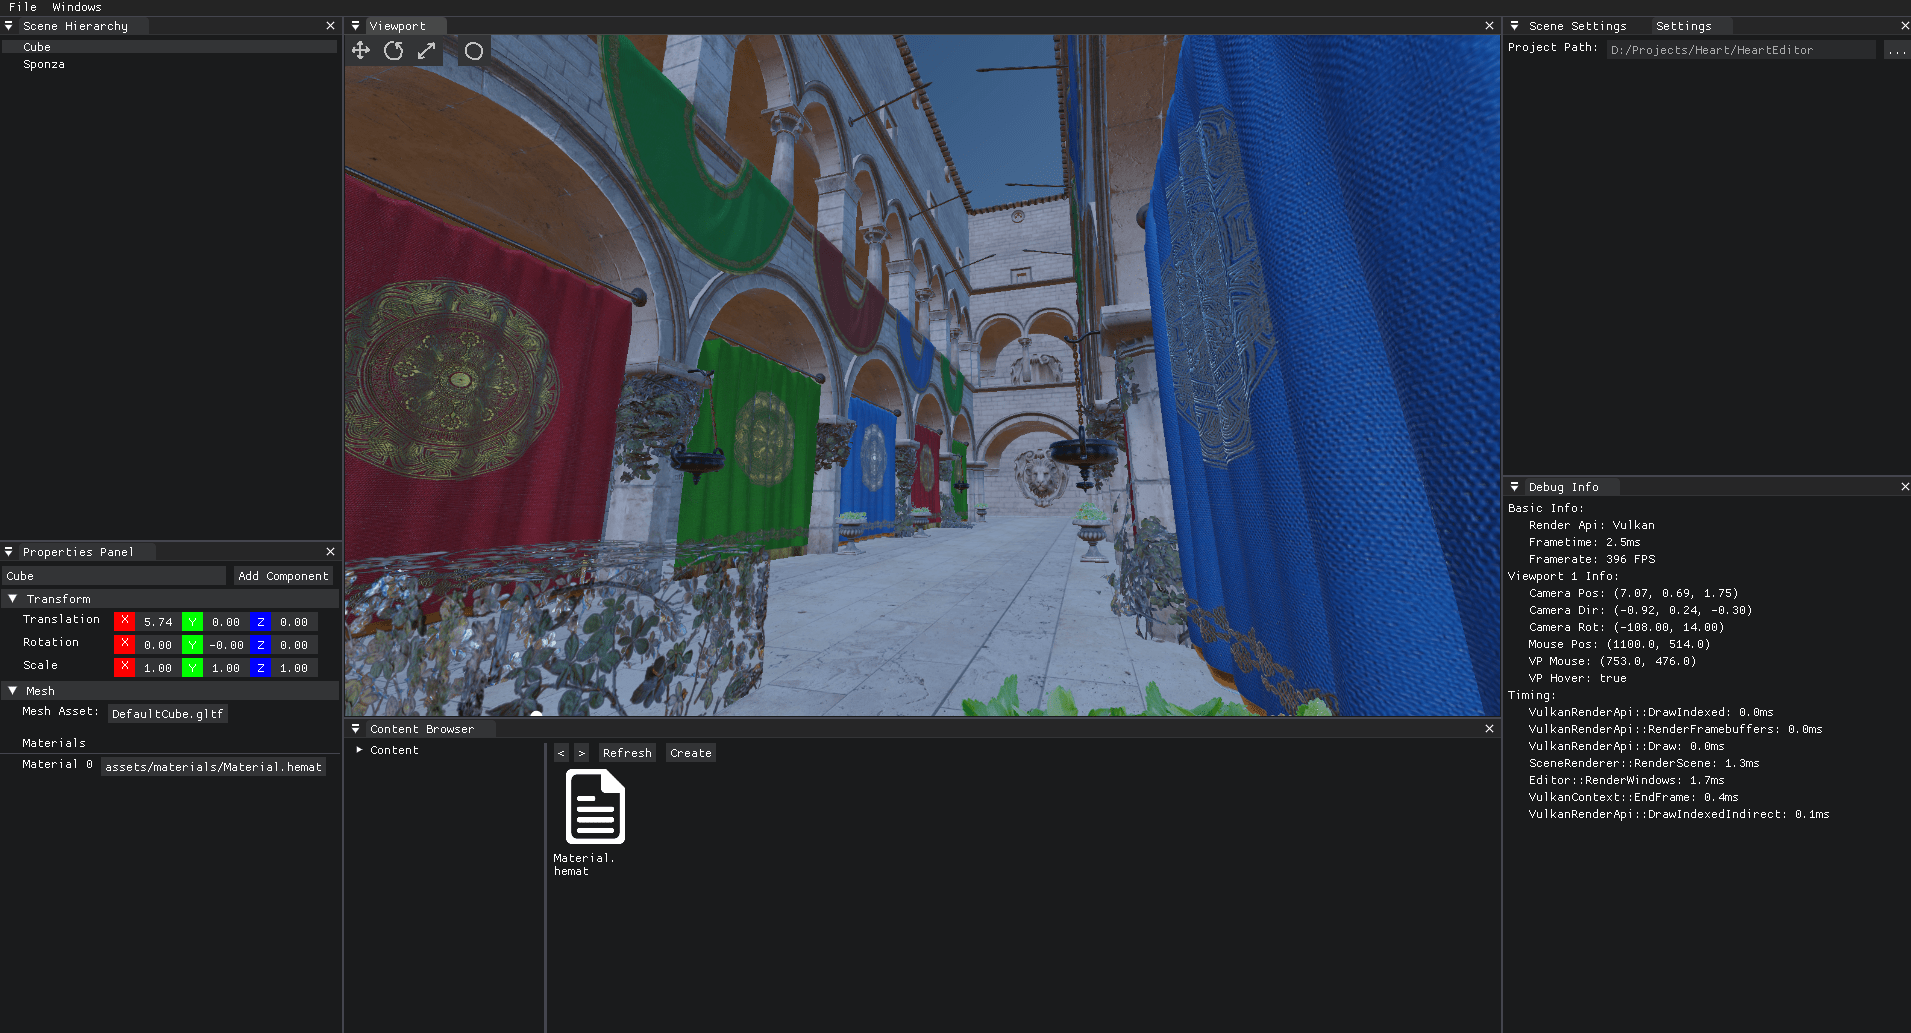
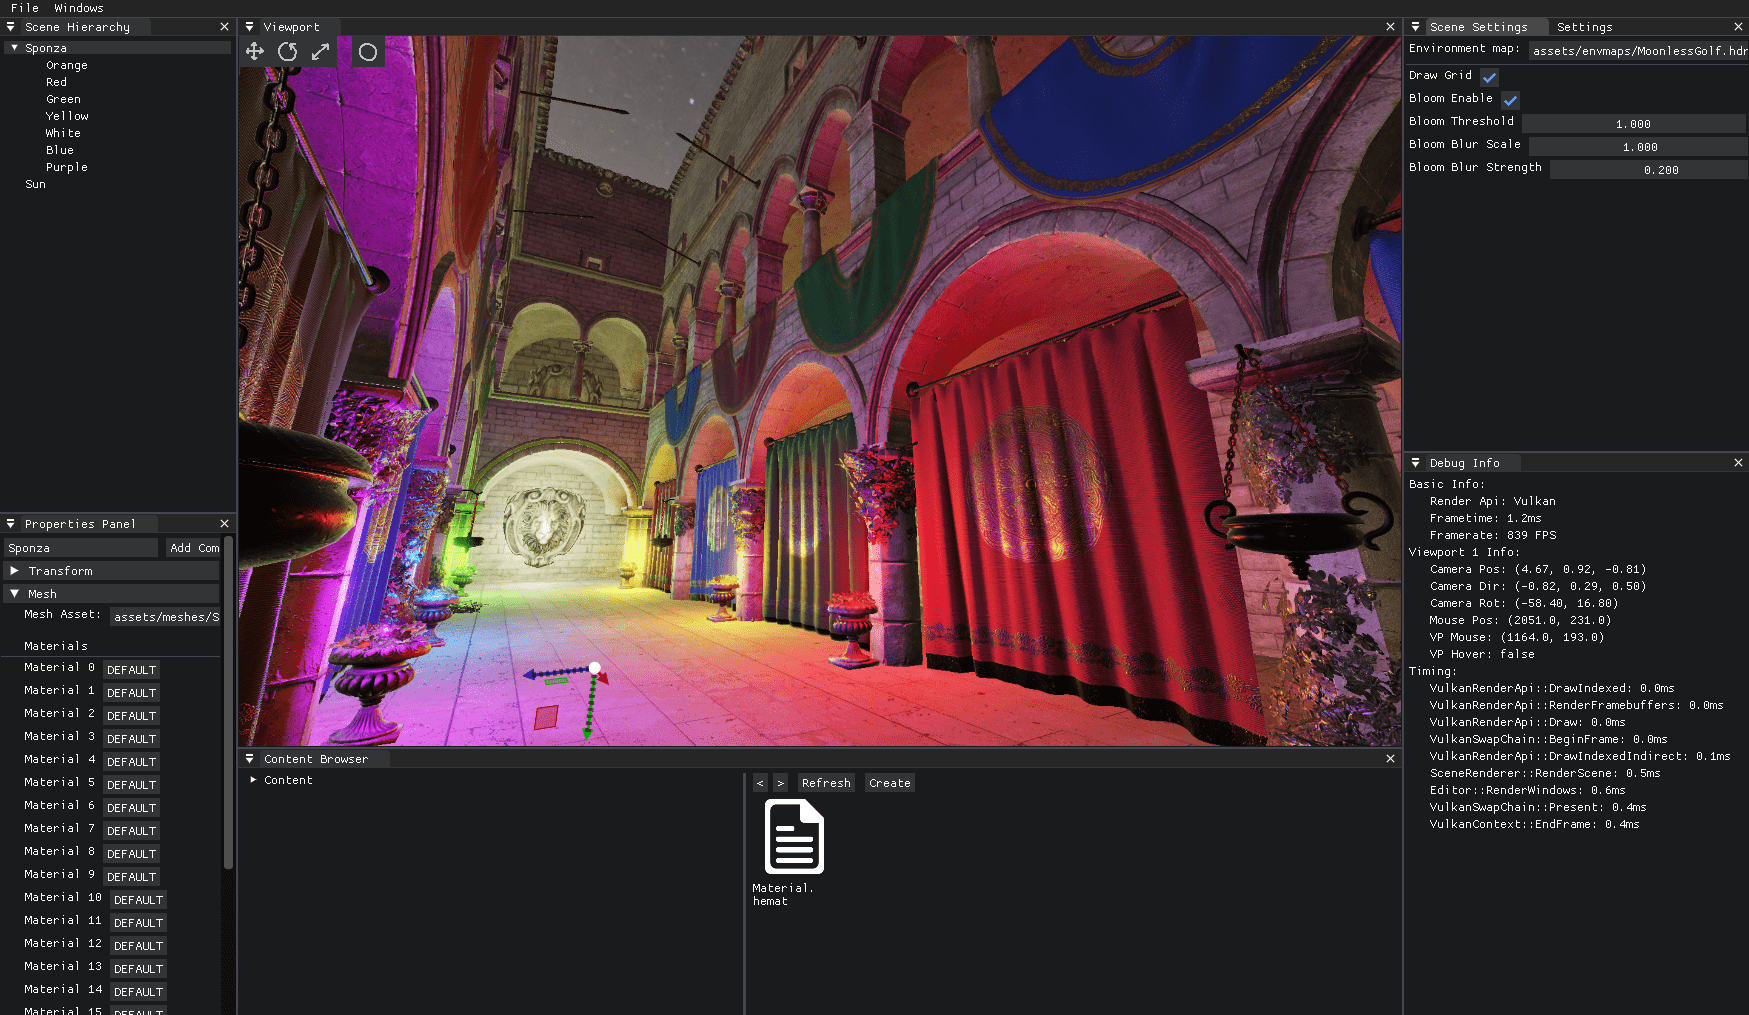
Updated screenshots & material editor fix

diff --git a/Heart/src/Heart/Renderer/SceneRenderer.cpp b/Heart/src/Heart/Renderer/SceneRenderer.cpp
@@ -91,7 +91,10 @@ namespace Heart
             { BufferDataType::Float4 }, // camera pos
             { BufferDataType::Float2 }, // screen size
             { BufferDataType::Bool }, // reverse depth
-            { BufferDataType::Float }, // padding
+            { BufferDataType::Float }, // bloom threshold
+            { BufferDataType::Bool }, // cull enable
+            { BufferDataType::Bool }, // padding
+            { BufferDataType::Float2 } // padding
         };
         BufferLayout bloomDataLayout = {
             { BufferDataType::UInt }, // mip level
@@ -250,7 +253,7 @@ namespace Heart
                 { {}, { { SubpassAttachmentType::Color, 3 } } }, // grid
                 { {}, { { SubpassAttachmentType::Depth, 0 }, { SubpassAttachmentType::Color, 3 }, { SubpassAttachmentType::Color, 4 }, { SubpassAttachmentType::Color, 0 } } }, // opaque
                 { {}, { { SubpassAttachmentType::Depth, 0 }, { SubpassAttachmentType::Color, 0 }, { SubpassAttachmentType::Color, 1 }, { SubpassAttachmentType::Color, 2 } } }, // transparent color
-                { { { SubpassAttachmentType::Color, 1 }, { SubpassAttachmentType::Color, 2 } }, { { SubpassAttachmentType::Depth, 0 }, { SubpassAttachmentType::Color, 3 } } }, // composite
+                { { { SubpassAttachmentType::Color, 1 }, { SubpassAttachmentType::Color, 2 } }, { { SubpassAttachmentType::Depth, 0 }, { SubpassAttachmentType::Color, 3 }, { SubpassAttachmentType::Color, 4 } } }, // composite
             },
             m_RenderWidth, m_RenderHeight,
             MsaaSampleCount::None
@@ -316,7 +319,7 @@ namespace Heart
             false,
             VertexTopology::TriangleList,
             Heart::Mesh::GetVertexLayout(),
-            { { true, BlendFactor::OneMinusSrcAlpha, BlendFactor::SrcAlpha, BlendFactor::SrcAlpha, BlendFactor::OneMinusSrcAlpha } },
+            { { true, BlendFactor::OneMinusSrcAlpha, BlendFactor::SrcAlpha, BlendFactor::SrcAlpha, BlendFactor::OneMinusSrcAlpha }, { false } },
             true,
             false,
             CullMode::None,
@@ -411,7 +414,7 @@ namespace Heart
             if (i == 0) // If we are on the last iteration, output directly to the output texture
             {
                 bloomFbCreateInfo.ColorAttachments[0].Texture = m_FinalTexture;
-                bloomFbCreateInfo.SampleCount = MsaaSampleCount::None;
+                bloomFbCreateInfo.SampleCount = MsaaSampleCount::Four;
             }
             else // Otherwise we are outputting to the bright color texture
                 bloomFbCreateInfo.ColorAttachments[0].Texture = m_BrightColorsTexture;
@@ -457,7 +460,8 @@ namespace Heart
             camera.GetProjectionMatrix(), camera.GetViewMatrix(), glm::vec4(cameraPosition, 1.f),
             m_MainFramebuffer->GetSize(),
             Renderer::IsUsingReverseDepth(),
-            m_SceneRenderSettings.BloomThreshold
+            m_SceneRenderSettings.BloomThreshold,
+            m_SceneRenderSettings.CullEnable
         };
         m_FrameDataBuffer->SetElements(&frameData, 1, 0);
 
@@ -467,10 +471,13 @@ namespace Heart
         // Recalculate the indirect render batches
         CalculateBatches();
 
-        SetupCullCompute();
-
-        // Bind the main framebuffer
-        m_MainFramebuffer->Bind(m_ComputeCullPipeline.get());
+        if (m_SceneRenderSettings.CullEnable)
+        {
+            SetupCullCompute();
+            m_MainFramebuffer->Bind(m_ComputeCullPipeline.get());
+        }
+        else
+            m_MainFramebuffer->Bind();
 
         // Render the skybox if set
         if (m_EnvironmentMap)
@@ -611,7 +618,8 @@ namespace Heart
             // Popupate the indirect buffer
             IndexedIndirectCommand command = {
                 pair.second.Mesh->GetIndexBuffer()->GetAllocatedCount(),
-                0, 0, 0, objectId
+                m_SceneRenderSettings.CullEnable ? 0 : pair.second.Count,
+                0, 0, objectId
             };
             m_IndirectBuffer->SetElements(&command, 1, commandIndex);
 
@@ -633,10 +641,13 @@ namespace Heart
                 m_ObjectDataBuffer->SetElements(&objectData, 1, objectId);
 
                 // Instance data
-                InstanceData instanceData = {
-                    objectId, commandIndex
-                };
-                m_InstanceDataBuffer->SetElements(&instanceData, 1, objectId);
+                if (m_SceneRenderSettings.CullEnable)
+                {
+                    InstanceData instanceData = {
+                        objectId, commandIndex
+                    };
+                    m_InstanceDataBuffer->SetElements(&instanceData, 1, objectId);
+                }
 
                 // Material data
                 if (pair.second.Material)

diff --git a/HeartEditor/src/HeartEditor/EditorLayer.cpp b/HeartEditor/src/HeartEditor/EditorLayer.cpp
@@ -90,13 +90,13 @@ namespace HeartEditor
         //     entity.SetPosition({ rand() % (max * 2) - max, rand() % (max * 2) - max, rand() % (max * 2) - max });
         // }
 
-        int max = 100;
-        for (int i = 0; i < 200; i++)
-        {
-            Heart::Entity entity = Editor::GetActiveScene().CreateEntity("Mesh " + std::to_string(i));
-            auto& comp = entity.AddComponent<Heart::MeshComponent>().Mesh = Heart::AssetManager::GetAssetUUID("assets/meshes/Sponza/glTF/Sponza.gltf");
-            entity.SetPosition({ rand() % (max * 2) - max, rand() % (max * 2) - max, rand() % (max * 2) - max });
-        }
+        // int max = 100;
+        // for (int i = 0; i < 200; i++)
+        // {
+        //     Heart::Entity entity = Editor::GetActiveScene().CreateEntity("Mesh " + std::to_string(i));
+        //     auto& comp = entity.AddComponent<Heart::MeshComponent>().Mesh = Heart::AssetManager::GetAssetUUID("assets/meshes/Sponza/glTF/Sponza.gltf");
+        //     entity.SetPosition({ rand() % (max * 2) - max, rand() % (max * 2) - max, rand() % (max * 2) - max });
+        // }
     }
 
     EditorLayer::~EditorLayer()

diff --git a/HeartEditor/src/HeartEditor/Widgets/MaterialEditor.cpp b/HeartEditor/src/HeartEditor/Widgets/MaterialEditor.cpp
@@ -69,6 +69,10 @@ namespace Widgets
                 m_CachedMaterial = materialAsset->GetMaterial();
             }
 
+            Heart::SceneRenderSettings renderSettings;
+            renderSettings.DrawGrid = false;
+            renderSettings.CullEnable = false;
+
             // Updates
             m_LastMaterial = m_SelectedMaterial;
             m_FirstRender = false;
@@ -79,7 +83,7 @@ namespace Widgets
                 m_Scene.get(),
                 m_SceneCamera,
                 m_SceneCameraPosition,
-                Heart::SceneRenderSettings() // default settings
+                renderSettings
             );
         }
 

diff --git a/Heart/src/Heart/Renderer/SceneRenderer.h b/Heart/src/Heart/Renderer/SceneRenderer.h
@@ -15,6 +15,8 @@ namespace Heart
         float BloomBlurStrength = 0.2f;
         float BloomBlurScale = 1.f;
         float BloomThreshold = 1.f;
+
+        bool CullEnable = true;
     };
 
     class Scene;
@@ -41,6 +43,9 @@ namespace Heart
             glm::vec2 ScreenSize;
             bool ReverseDepth;
             float BloomThreshold;
+            bool CullEnable;
+            bool padding1;
+            glm::vec2 padding2;
         };
         struct BloomData
         {

diff --git a/HeartEditor/src/HeartEditor/Widgets/SceneSettings.cpp b/HeartEditor/src/HeartEditor/Widgets/SceneSettings.cpp
@@ -63,6 +63,10 @@ namespace Widgets
         ImGui::SameLine();
         ImGui::DragFloat("##BBStren", &Editor::GetState().RenderSettings.BloomBlurStrength, 0.1f, 0.f, 50.f);
 
+        ImGui::Text("Cull Enable");
+        ImGui::SameLine();
+        ImGui::Checkbox("##CullEnable", &Editor::GetState().RenderSettings.CullEnable);
+
         ImGui::End();
         ImGui::PopStyleVar();
     }

diff --git a/HeartEditor/src/HeartEditor/Widgets/SceneHierarchyPanel.cpp b/HeartEditor/src/HeartEditor/Widgets/SceneHierarchyPanel.cpp
@@ -106,7 +106,11 @@ namespace Widgets
             ImGui::EndPopup();
         }
 
-        if (justDestroyed) return true;
+        if (justDestroyed)
+        {
+            ImGui::TreePop();
+            return true;
+        }
 
         // recursively render children components
         if (open)

diff --git a/Heart/src/Heart/Core/Camera.cpp b/Heart/src/Heart/Core/Camera.cpp
@@ -194,5 +194,7 @@ namespace Heart
             0.f, 0.f, 1.f, 0.f,
             0.f, 0.f, 0.f, 1.f
         ) * m_ViewMatrix;
+
+        ComputeFrustum(circularPosition);
     }
 }
